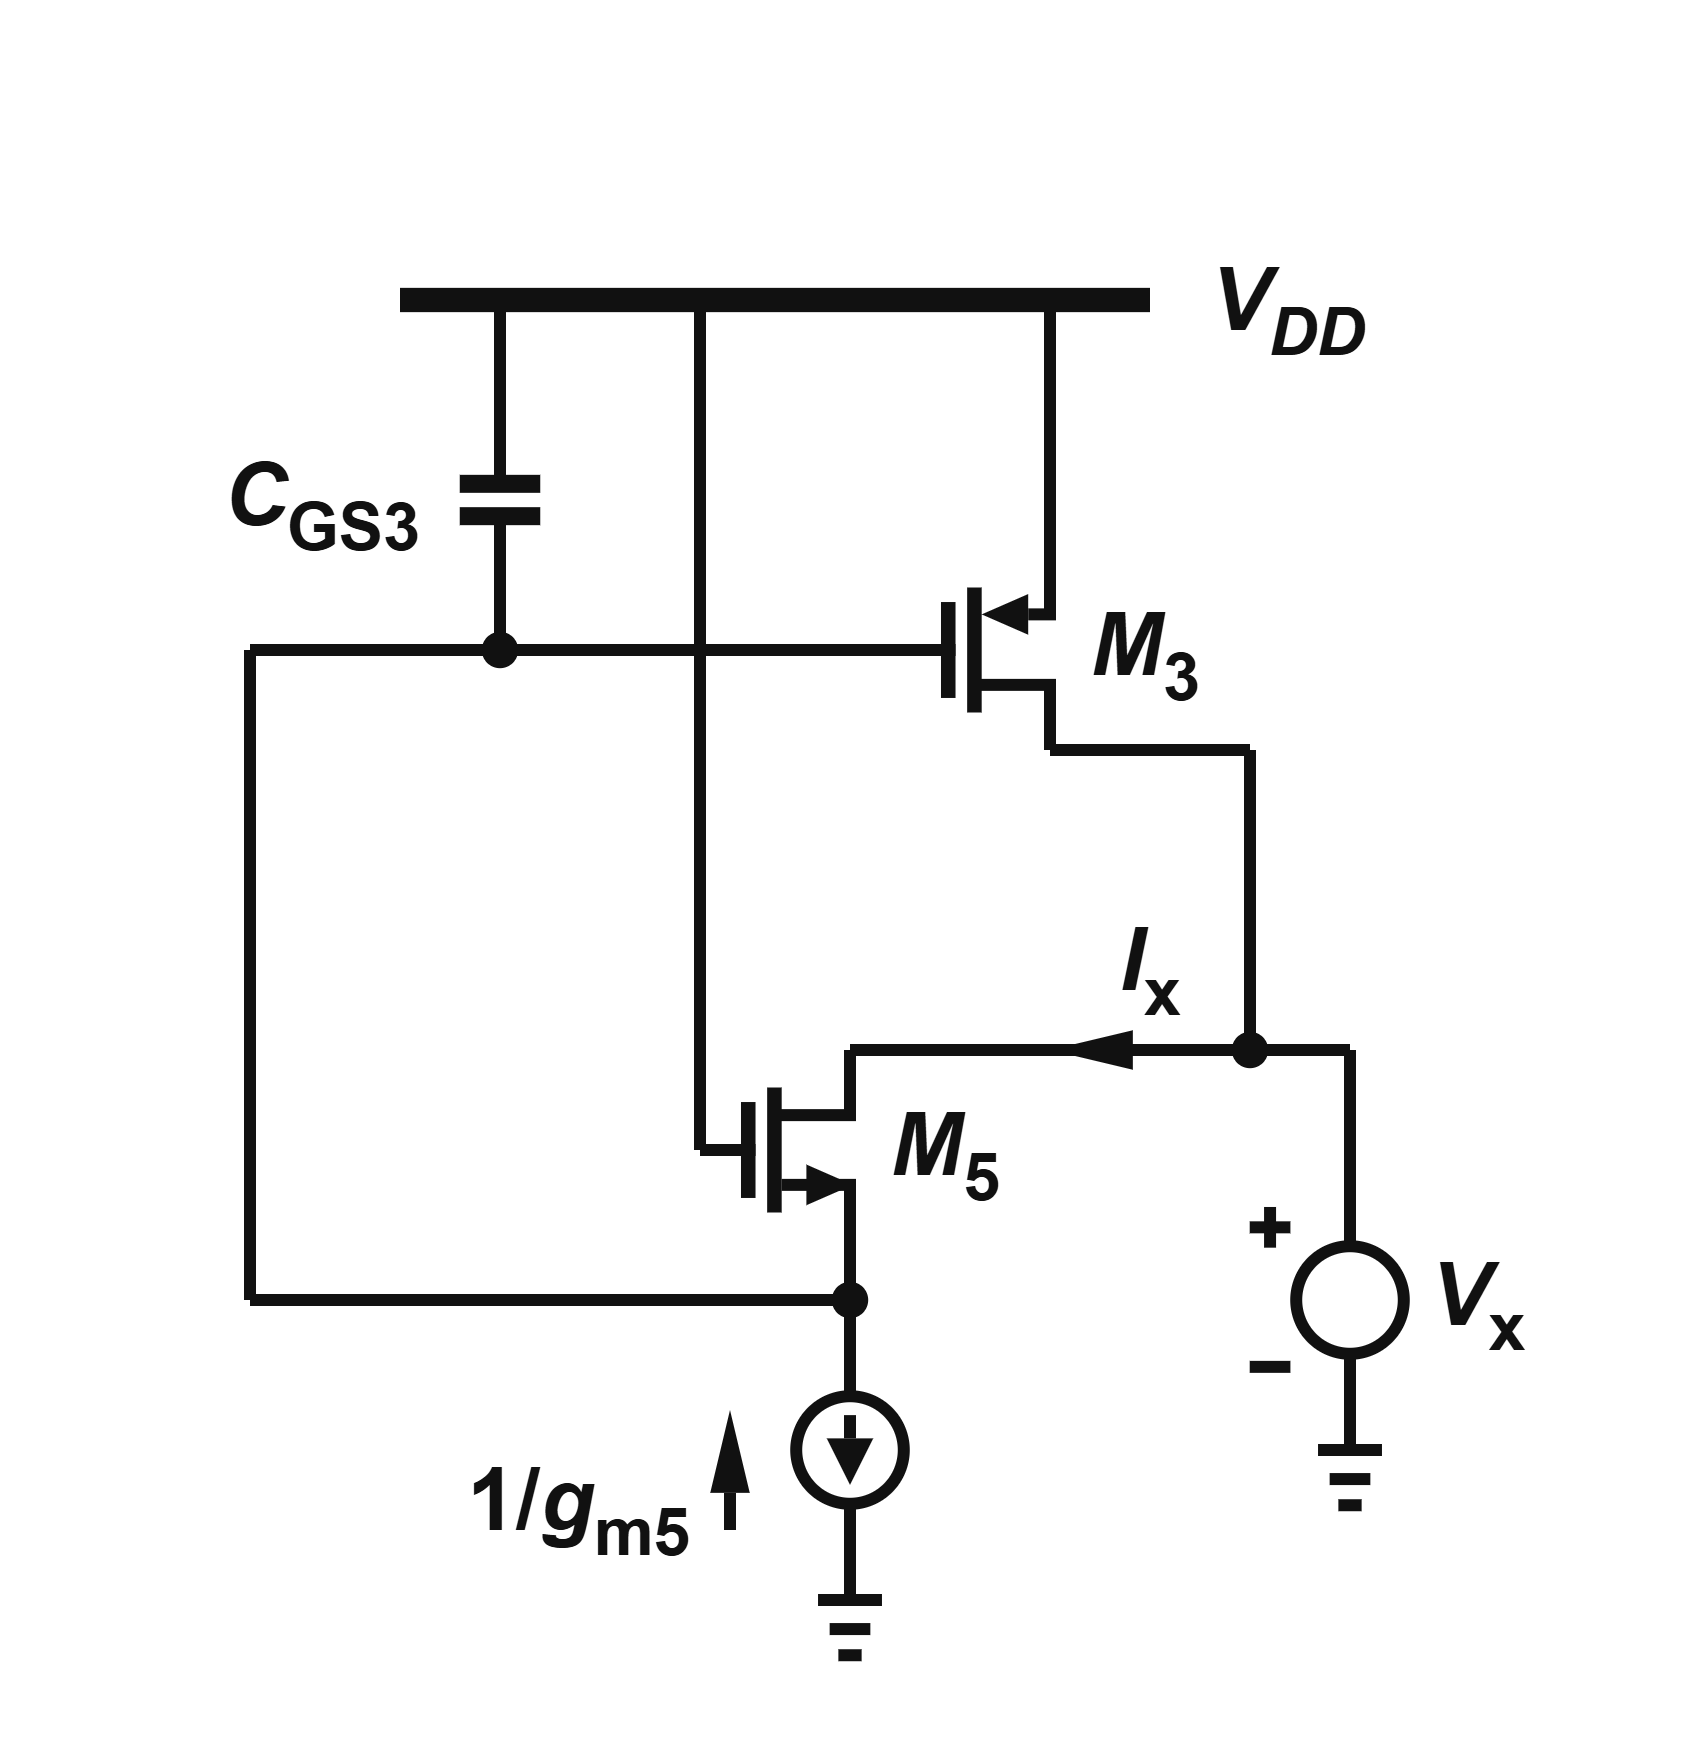
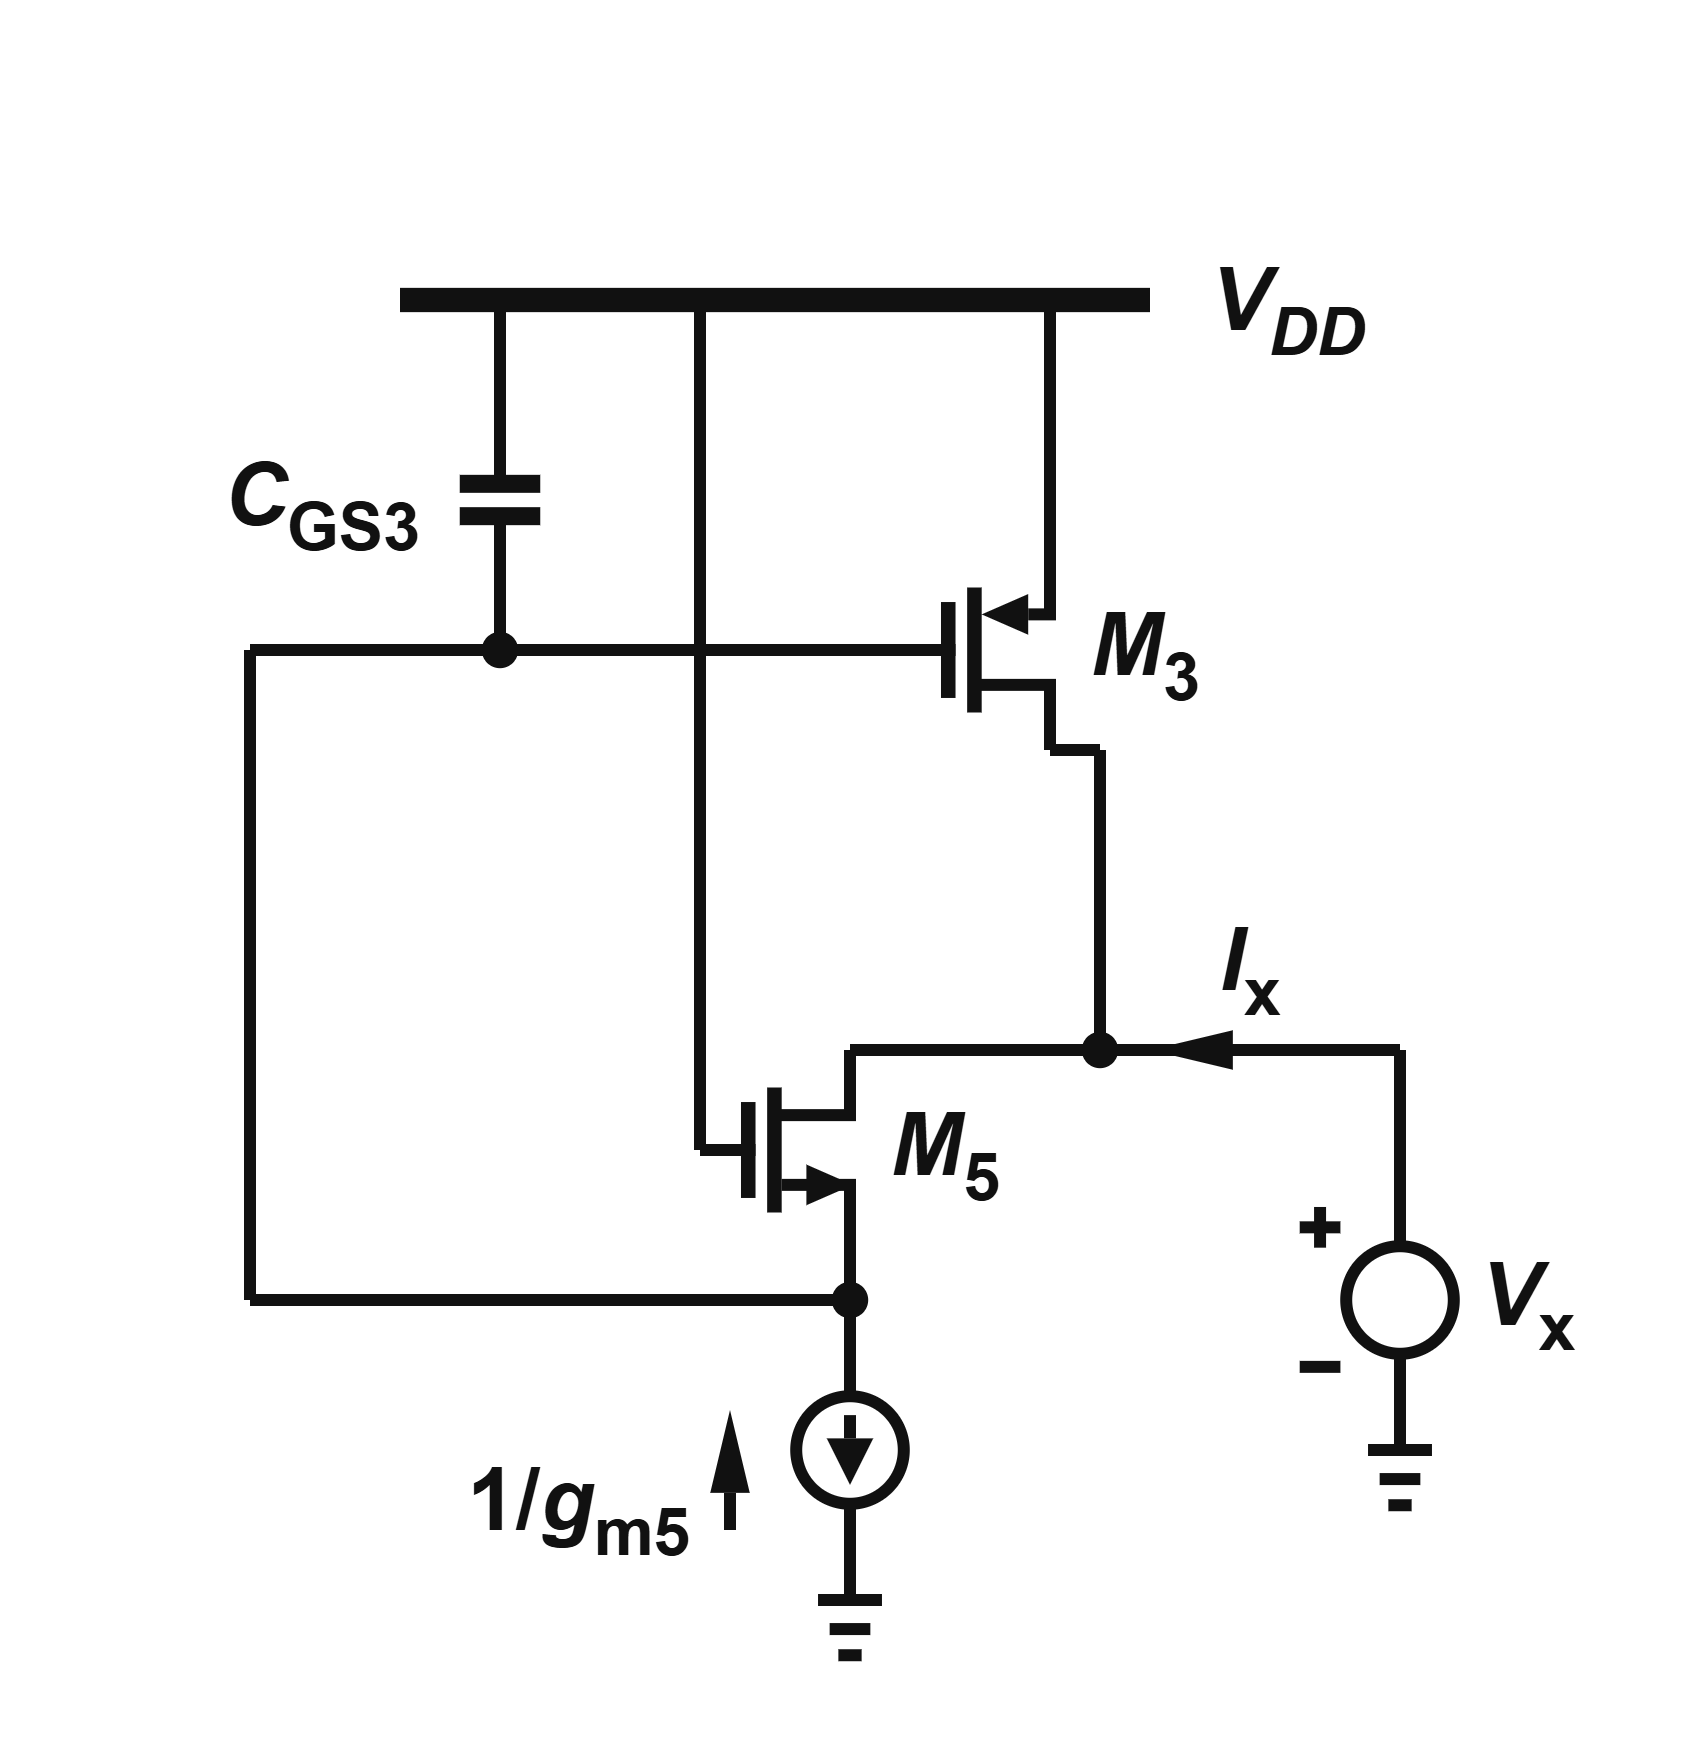
I_x 移到 V_x 自己的引線上：電流分流之後的那一段標不得

Changed region(s): [[0.7171, 0.5863, 0.9353, 0.864], [0.6235, 0.4011, 0.7482, 0.6171]]

diff --git a/toolkit/gen_handdrawn_cgs3_probe.py b/toolkit/gen_handdrawn_cgs3_probe.py
@@ -42,7 +42,7 @@ f.passive("CGS3", "capacitor", 150, 140, "C_GS3")
 f.mos("M3", "pmos", 250, 170, "none", "M_3")
 f.mos("M5", "nmos", 210, 270, "none", "M_5")
 f.isrc("IGM", 220, 330, "I_gm")
-f.place("VX", "voltage-source", 320, 300, extra={
+f.place("VX", "voltage-source", 330, 300, extra={
     "schematicReference": "VX", "schematicName": name("V_x"),
     "netlist": {"binding": {"kind": "primitive",
                             "deviceClass": "voltage-source"},
@@ -51,7 +51,7 @@ f.gnd("GI", 220, 360)
 # The page draws the top line thick and running PAST both end taps: that is
 # a power rail, not a vdd-port (user, 2026-08-30; SOP 7 already said "if
 # there is a rail, do not use vdd-port" -- I used one anyway).
-f.gnd("GX", 320, 330)
+f.gnd("GX", 330, 330)
 
 # ---------------------------------------------------------------- junctions
 RAIL = [130, 150, 190, 260, 280]      # 20 of overhang past each end tap
@@ -63,7 +63,7 @@ for jid, net, x, y in (("jvdd-start", "net-top", 130, 100),
                        ("JG", "net-g3", 150, 170),    # C_GS3 down onto the
                        ("JS", "net-g3", 100, 300),    # M_3 gate wire, and that
                        ("JS2", "net-g3", 220, 300),   # wire down to M_5 src
-                       ("JX", "net-x", 300, 250)):    # wire down to M_5's src
+                       ("JX", "net-x", 270, 250)):    # wire down to M_5's src
     f.junction(jid, net, x, y)
 
 # -------------------------------------------------------------------- nets
@@ -89,9 +89,10 @@ f.route("r-g-m5s", "net-g3", T("M5", "S"), [("to", Jn("JS2"))])
 f.route("r-g-igm", "net-g3", Jn("JS2"), [("to", T("IGM", "+"))])
 
 f.route("r-x-m3", "net-x", T("M3", "D"),
-        [("bend", 300, 190), ("to", Jn("JX"))])
+        [("bend", 270, 190), ("to", Jn("JX"))])
 f.route("r-x-m5", "net-x", T("M5", "D"), [("to", Jn("JX"))])
-f.route("r-x-vx", "net-x", Jn("JX"), [("bend", 320, 250), ("to", T("VX", "+"))])
+f.route("r-x-vx", "net-x", Jn("JX"),
+        [("bend", 330, 250), ("to", T("VX", "+"))])
 # I_gm and V_x sit pin-on-pin on their ground symbols, so neither needs a wire
 
 # ------------------------------------------------------------- annotations
@@ -100,9 +101,11 @@ f.inst_label("M3", 18, 5, "start")
 f.inst_label("M5", 18, 5, "start")
 f.inst_label("VX", 16, 5, "start")
 f.power_label("label-vdd", "net-top", "jvdd-end", 12, 6, "V_DD")
-# I_x flows leftwards into the probed node, on the bus V_x drives
-f.arrow("arrow-ix", 300, 250, 260, 250)
-f.text("n-ix", 280, 238, "middle", name("I_x"))
+# I_x is the test current V_x pushes in, so it belongs on V_x's OWN lead --
+# not on M_5's drain branch, where the current has already split
+# (user, 2026-08-31).  That is where the page puts it too.
+f.arrow("arrow-ix", 320, 250, 280, 250)
+f.text("n-ix", 300, 238, "middle", name("I_x"))
 # the red pen: 1/g_m5 is what the source below M_5 stands for
 # hard up against the source it annotates: the space on its right
 # belongs to V_x's ground, so the note goes on the left
@@ -118,7 +121,9 @@ f.build(long_haul={"r-vdd-rail-2",  # 70: the rail on to M_3's source
                                    #         draws it
                    "r-g-bus",      # 120: and back across under M_5
                    "r-x-m3",       # 50+60: M_3's drain doglegs onto the bus
-                   "r-x-m5"},      # 80: the bus over to the corner
+                   "r-x-m5",       # 50: the bus over to the corner
+                   "r-x-vx"},      # 60: V_x's lead, long enough to
+                                   #     carry the I_x arrow
         rail_ends={"jvdd-start", "jvdd-end"},
         viewbox=(50, 40, 340, 350),
         # plain on purpose: "1/" is arithmetic, not a device name
